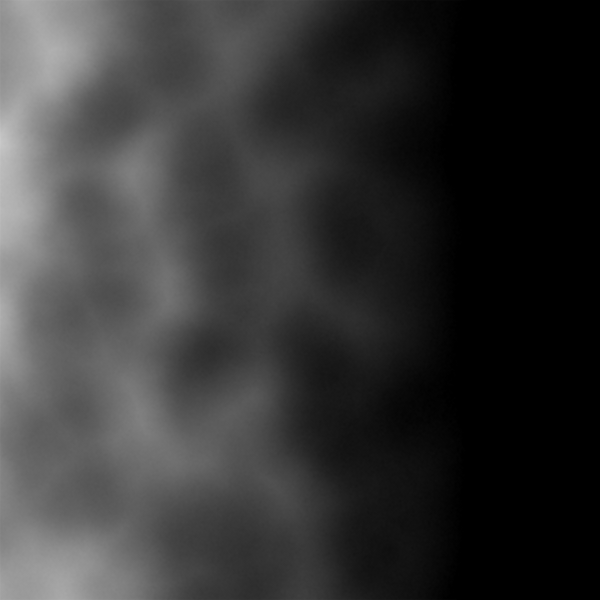
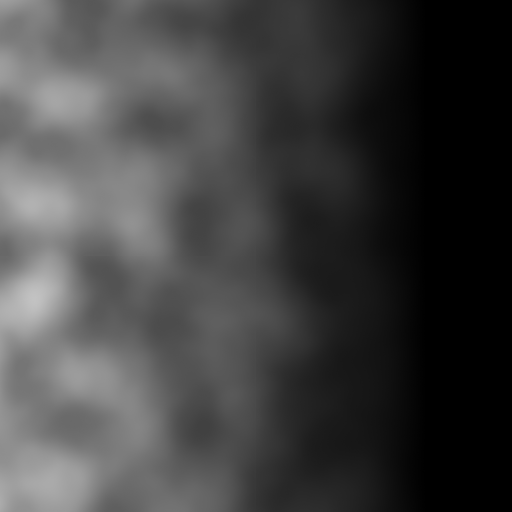
got pretty close to desired look; forcusing on multiprocessor utility

diff --git a/test_scripts/testShorelineErosion.js b/test_scripts/testShorelineErosion.js
@@ -10,35 +10,37 @@ if (cluster.isMaster) {
           var erodeScript = path.resolve(__dirname, '../lib/erosion/erode.js');
           console.log('executing script', erodeScript);
 
+          return ter.toPng(path.resolve(__dirname, 'shorelinePreEroded.png'))
+      })
+      .then(function () {
           var manager = new Manager(ter);
-          manager.init().then(function () {
-              console.log('updating workers');
-              return manager.updateWorkers({
-                  script: erodeScript,
-                  sedDissolve: 0.05,
-                  maxSaturation: 0.5,
-                  waterAmount: 1,
-                  neighborWaterAmount: 0.5,
-                  waterFreq: 1/8,
-                  evapRate: 0.9,
-                  reps: 300,
-                  distance: 1,
-                  feedback: true,
-                  noisy: true
-              })
-                .then(function () {
-                    console.log('writing terrain');
-                    ter.toPng(path.resolve(__dirname, 'shorelineEroded.png'))
-                      .then(function(){
-                          manager.closeWorkers();
-                      }, function(err){
-                          console.log('error on toPng:', err);
-                          manager.closeWorkers();
-                      });
-                });
-          }, function (err) {
-              console.log('err initalizing', err);
-          });
+          return manager.init();
+      }).then(function () {
+          console.log('updating workers');
+          return manager.updateWorkers({
+              script: erodeScript,
+              sedDissolve: 0.05,
+              maxSaturation: 0.5,
+              waterAmount: 1 / 5,
+              neighborWaterAmount: 0.5,
+              waterFreq: 1 / 8,
+              evapRate: 0.75,
+              reps: 200,
+              distance: 1,
+              feedback: true,
+              noisy: true
+          })
+      }, function (err) {
+          console.log('err initalizing', err);
+      }).then(function () {
+          console.log('writing terrain');
+          ter.toPng(path.resolve(__dirname, 'shorelineEroded.png'))
+            .then(function () {
+                manager.closeWorkers();
+            }, function (err) {
+                console.log('error on toPng:', err);
+                manager.closeWorkers();
+            });
       });
 
 } else {

diff --git a/test_scripts/testShorelineErosionNoWorker.js b/test_scripts/testShorelineErosionNoWorker.js
@@ -23,13 +23,13 @@ shoreline(600, 600)
         .then(function () {
             return worker.updateTerrain({
                 script: erodeScript,
-                sedDissolve: 0.1,
-                maxSaturation: 0.25,
-                waterAmount: 1,
+                sedDissolve: 0.05,
+                maxSaturation: 0.5,
+                waterAmount: 1/5,
                 neighborWaterAmount: 0.5,
                 waterFreq: 1/8,
-                evapRate: 0.9,
-                reps: 300,
+                evapRate: 0.75,
+                reps: 200,
                 distance: 1,
                 noisy: true
             })
